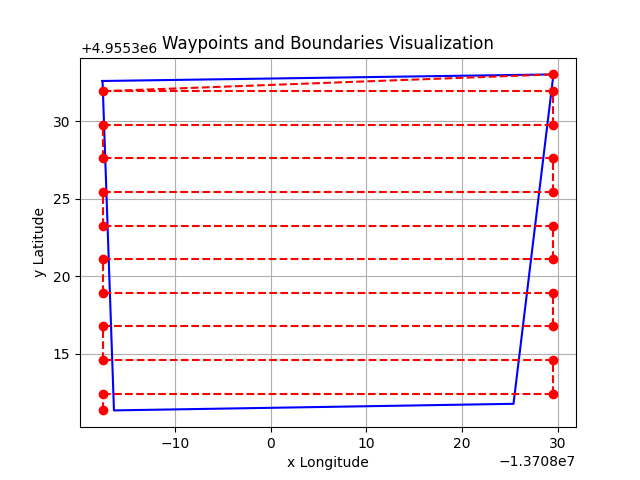
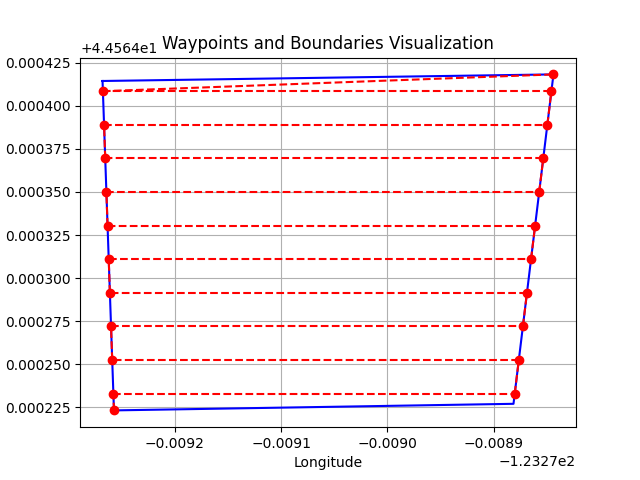
Fixed left and right bounds of waypoints to the boundaries.

diff --git a/backend/mission_planner.py b/backend/mission_planner.py
@@ -45,28 +45,54 @@ def xy_to_ll(x, y):
     lng = x / R * 180 / 3.14159
     return {"lat": lat, "lng": lng}
 
+def get_x_coordinate(y, x1, y1, slope):
+    """ 
+    Helper function for generate_waypoints_from_boundaries. 
+    Returns the x coordinate given a y coordinate and a slope.
+    """
+    return x1 + (y - y1) / slope
+
 def generate_waypoints_from_boundaries(boundaries):
     """
-    Generates a list of waypoints from a list of boundary points. Currently generates a basic square wave pattern through area
+    Generates a list of waypoints from a list of boundary points. Currently generates a basic square wave pattern 
+    through area defined by boundaries.
     inputs:
     - boundaries: list of dictionaries, each containing a x and y key
 
     limitations: 
     - boundaries must currently represent a rectangle (first and last points are the same) len(boundaries) == 5
     """
-    DRONE_DIAMETER = 2 # meters ADJUST
+    DRONE_DIAMETER = 2  # meters ADJUST
 
     if len(boundaries) != 5:
         raise ValueError("Boundaries must represent a rectangle. len(boundaries) must be 5.")
+    
+    # Get the two minimum x left boundary points
+    x_left_1 = min(boundaries, key=lambda x: x["x"])["x"]
+    y_left_1 = min(boundaries, key=lambda x: x["x"])["y"]
+    
+    # Find the next smallest x-value that is greater than x_left_1
+    next_smallest_x_left = min(boundary["x"] for boundary in boundaries if boundary["x"] != x_left_1)
+    x_left_2 = next_smallest_x_left
+    y_left_2 = next(boundary["y"] for boundary in boundaries if boundary["x"] == next_smallest_x_left)
+   
+    left_boundary_slope = (y_left_2 - y_left_1) / (x_left_2 - x_left_1)
 
+    # Get the two maximum x right boundary points
+    x_right_1 = max(boundaries, key=lambda x: x["x"])["x"]
+    y_right_1 = max(boundaries, key=lambda x: x["x"])["y"]
+    
+    # Find the next largest x-value that is less than x_right_1
+    next_largest_x_right = max(boundary["x"] for boundary in boundaries if boundary["x"] != x_right_1)
+    x_right_2 = next_largest_x_right
+    y_right_2 = next(boundary["y"] for boundary in boundaries if boundary["x"] == next_largest_x_right)
+
+    right_boundary_slope = (y_right_2 - y_right_1) / (x_right_2 - x_right_1)
+
+    # y values for spacing of flight rows
     y_max = max(boundaries, key=lambda x: x["y"])["y"]
     y_min = min(boundaries, key=lambda x: x["y"])["y"]
-    x_max = max(boundaries, key=lambda x: x["x"])["x"]
-    x_min = min(boundaries, key=lambda x: x["x"])["x"]
-
     height = y_max - y_min
-    width = x_max - x_min
-
     num_paths = height // DRONE_DIAMETER # p
 
     waypoints = []
@@ -74,20 +100,20 @@ def generate_waypoints_from_boundaries(boundaries):
     right_waypoints = []
 
     # add starting point
-    left_waypoints.append({"y": y_min, "x": x_min})
+    left_waypoints.append({"y": y_min, "x": get_x_coordinate(y_min, x_left_1, y_left_1, left_boundary_slope)})
 
     # (xmin, ymin+ a/2D), (xmin, ymin+ 3a/2p), (xmin, ymin+ 5a/2p), etc
     odd_num = 1
     for i in range(int(num_paths)):
-        ## TODO: bind the x values to the vectors created by the boundaries instead of x min and max
+        y_coordinate = y_min + (odd_num*height)/(2 * num_paths)
 
         # add waypoints
-        left_waypoints.append({"y": y_min + (odd_num*height)/(2 * num_paths), "x": x_min})
-        right_waypoints.append({"y": y_min + (odd_num*height)/(2 * num_paths), "x": x_max})
+        left_waypoints.append({"y": y_coordinate, "x": get_x_coordinate(y_coordinate, x_left_1, y_left_1, left_boundary_slope)})
+        right_waypoints.append({"y": y_coordinate, "x": get_x_coordinate(y_coordinate, x_right_1, y_right_1, right_boundary_slope)})
         odd_num += 2
     
     # add ending point
-    right_waypoints.append({"y": y_max, "x": x_max})
+    right_waypoints.append({"y": y_max, "x": get_x_coordinate(y_max, x_right_1, y_right_1, right_boundary_slope)})
 
     # combine left and right waypoints
     while (left_waypoints) or (right_waypoints):
@@ -99,7 +125,6 @@ def generate_waypoints_from_boundaries(boundaries):
             waypoints.append(right_waypoints.pop(0))
 
     return waypoints
-
 
 def visualize_waypoints_xy(waypoints, boundaries):
     """
